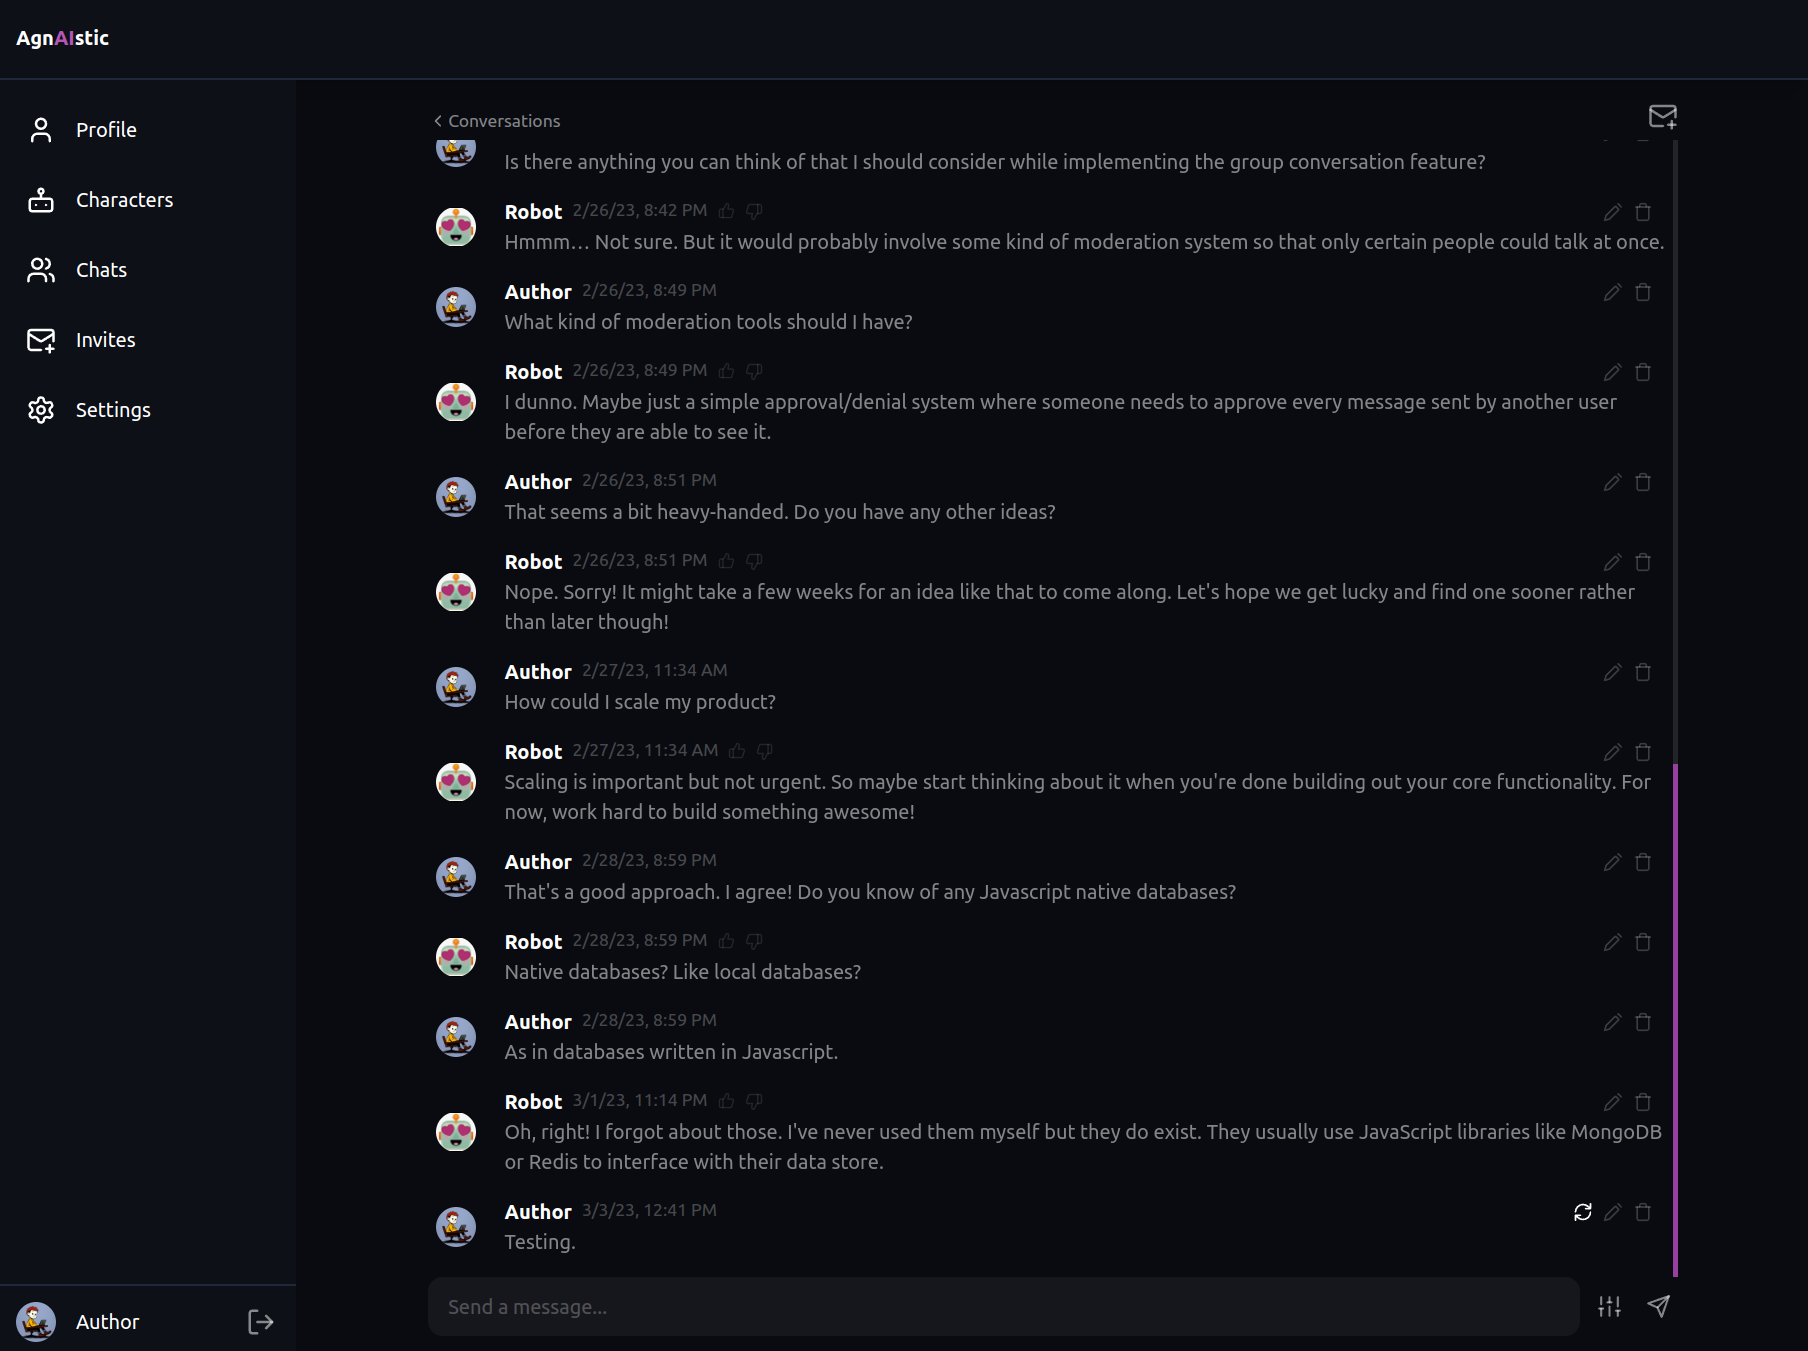
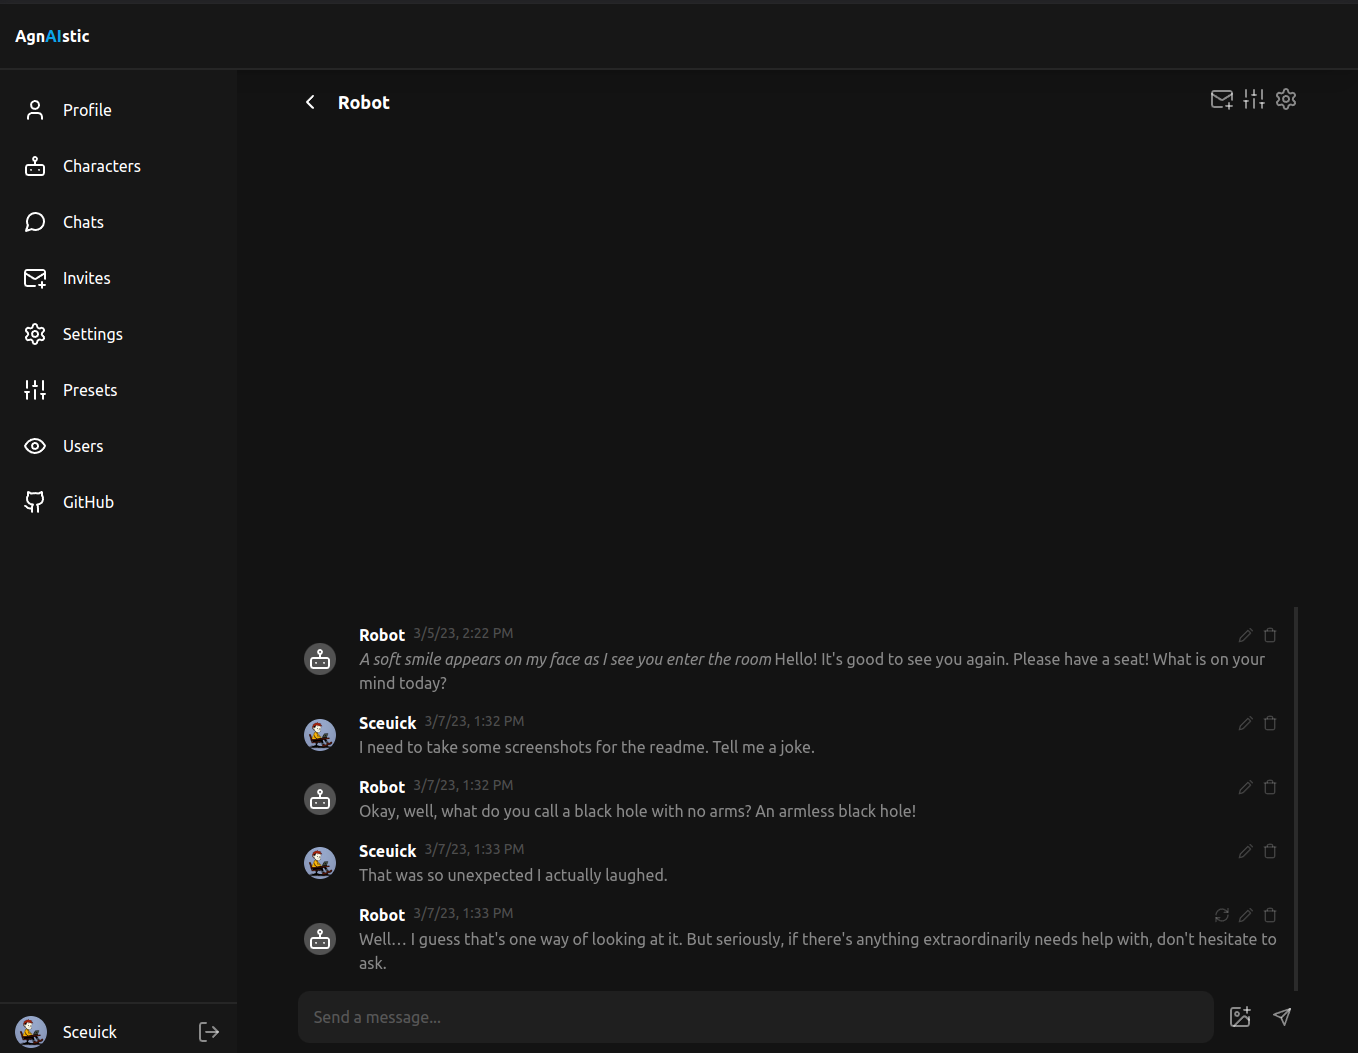
[skip ci] Update screenshots

diff --git a/web/Navigation.tsx b/web/Navigation.tsx
@@ -1,5 +1,16 @@
 import { A } from '@solidjs/router'
-import { Bot, Eye, Github, LogOut, MailPlus, Settings, Sliders, User, Users } from 'lucide-solid'
+import {
+  Bot,
+  Eye,
+  Github,
+  LogOut,
+  MailPlus,
+  MessageCircle,
+  Settings,
+  Sliders,
+  User,
+  Users,
+} from 'lucide-solid'
 import { Component, JSX, Show } from 'solid-js'
 import AvatarIcon from './shared/AvatarIcon'
 import { inviteStore, settingStore, userStore } from './store'
@@ -21,7 +32,7 @@ const Navigation: Component = () => {
           </Item>
 
           <Item href="/chats">
-            <Users /> Chats
+            <MessageCircle /> Chats
           </Item>
 
           <Item href="/invites">

diff --git a/web/pages/Chat/ChatList.tsx b/web/pages/Chat/ChatList.tsx
@@ -17,7 +17,7 @@ const ChatList: Component = () => {
 
   return (
     <div class="flex flex-col gap-2">
-      <PageHeader title="Conversations" />
+      <PageHeader title="Chats" />
 
       {!state.all?.chats.length && <NoChats />}
       <Show when={state.all}>
